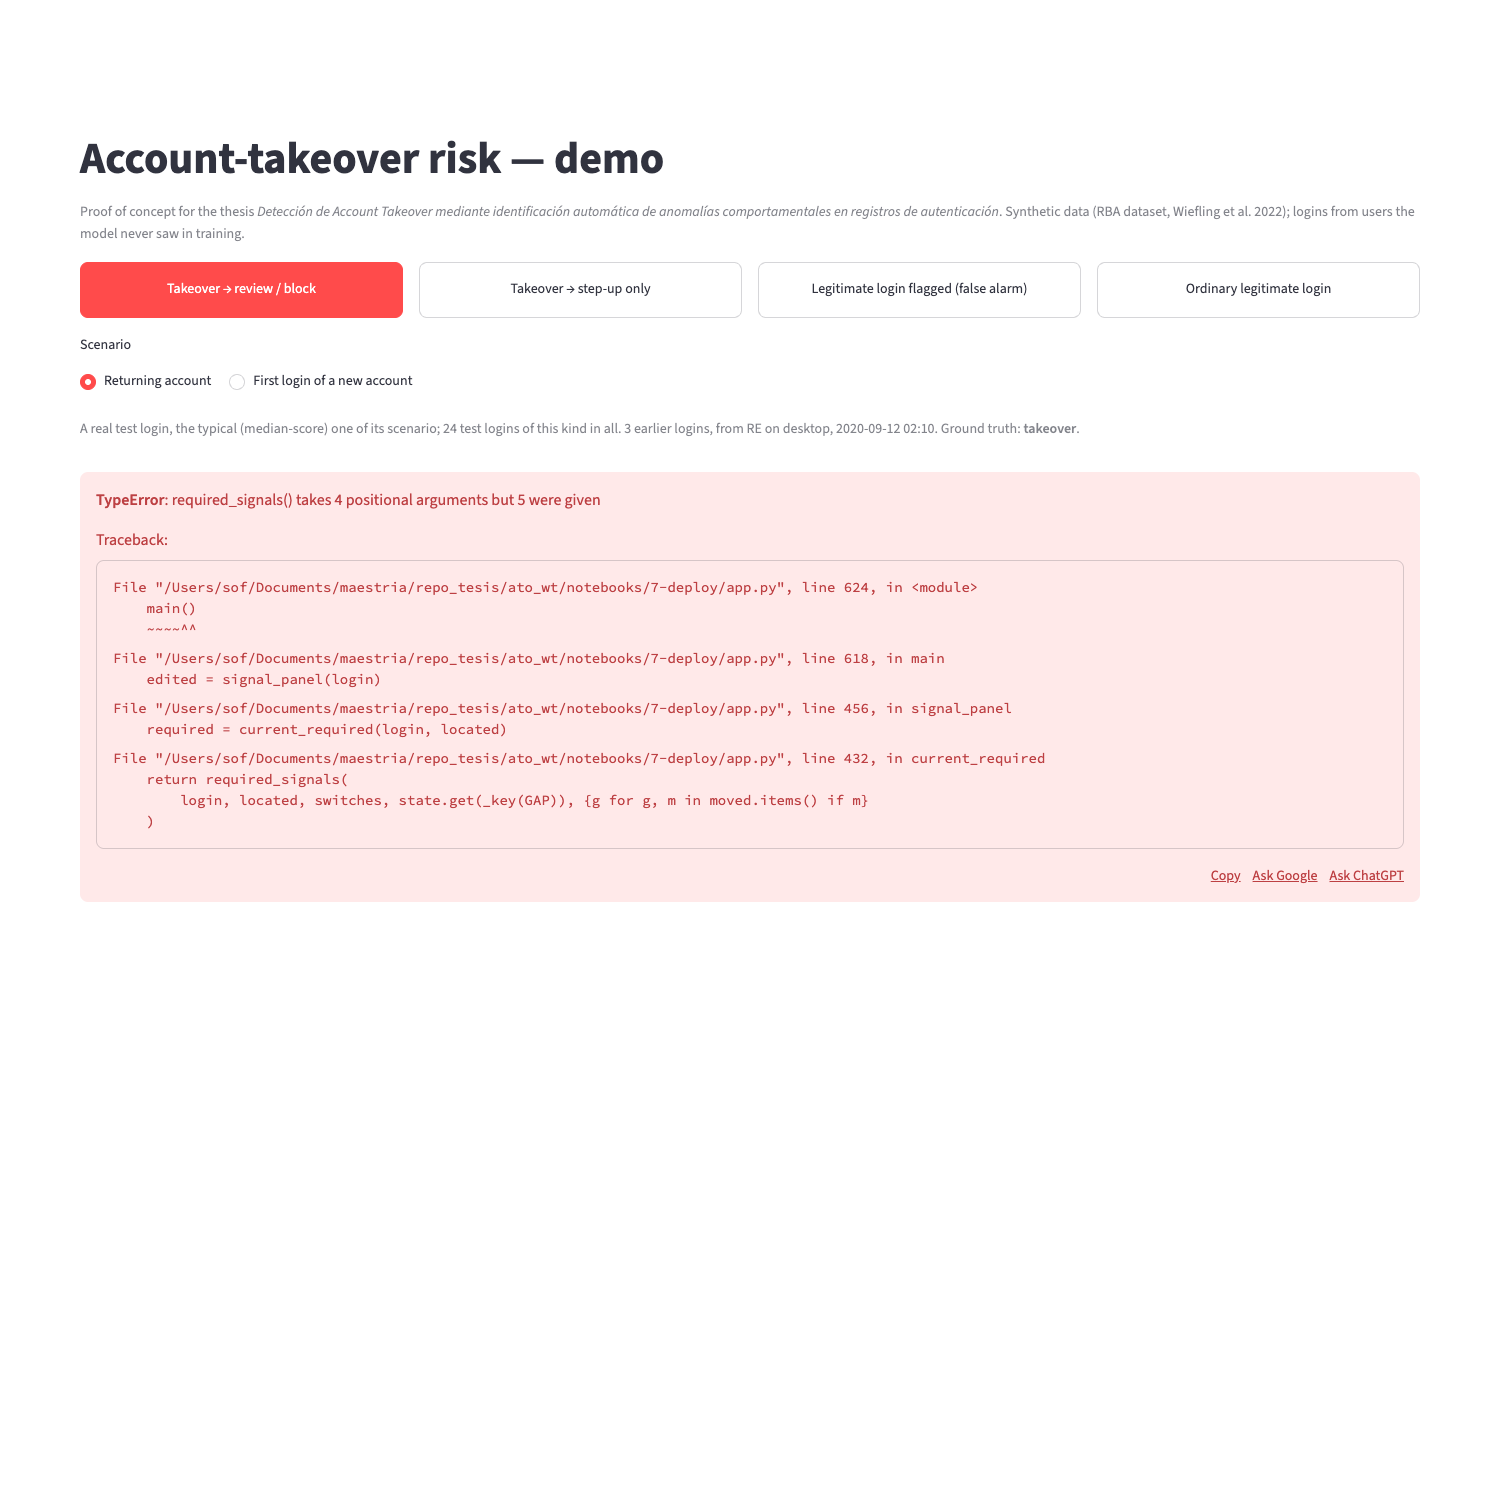
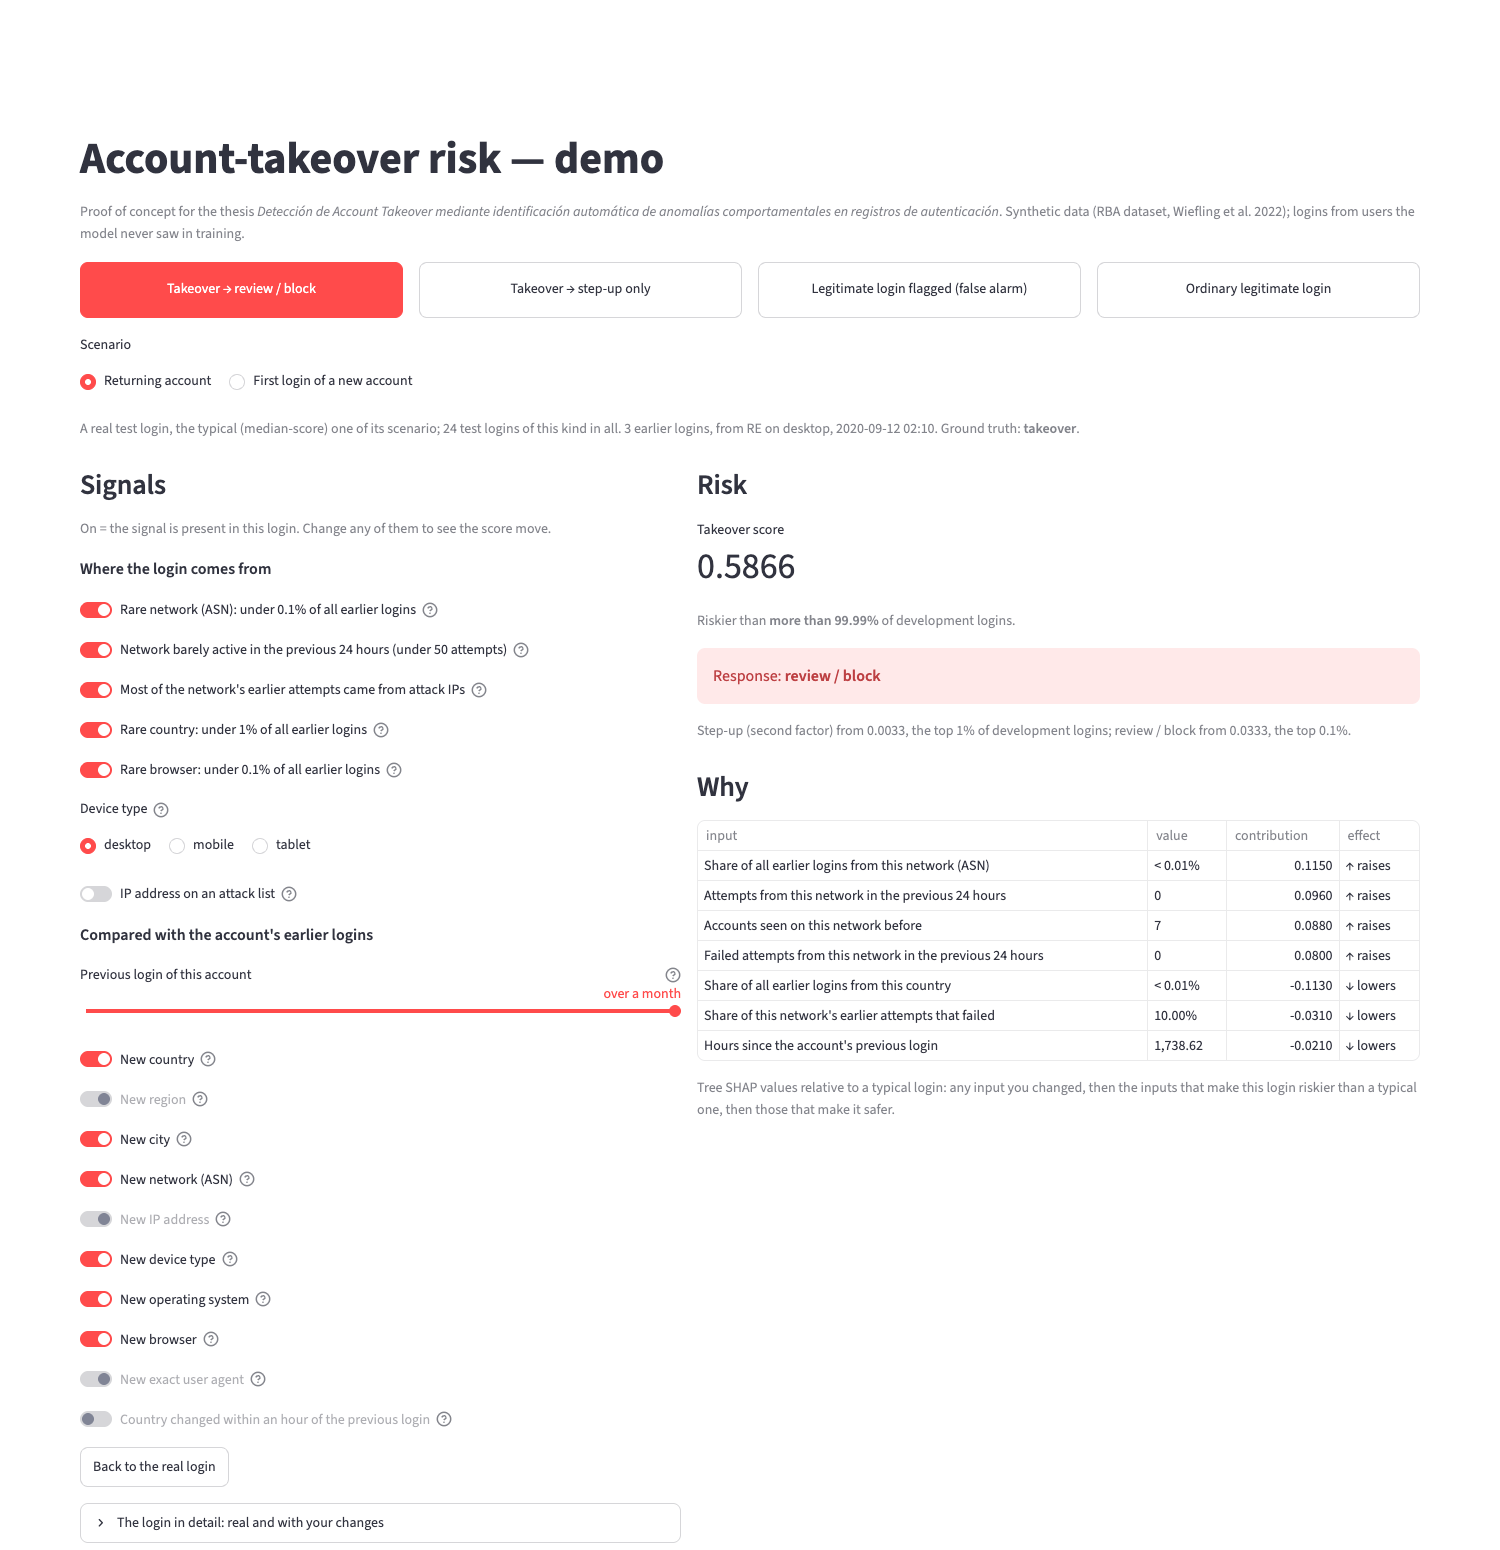
feat: explain each demo signal and show the real and what-if login side by side
Add a definition on hover for every control, move the device type and
the rare-browser switch together so the browser always fits the device,
show the real login next to the what-if version, and state the score
change against the real login's score.

diff --git a/notebooks/7-deploy/app.py b/notebooks/7-deploy/app.py
@@ -102,6 +102,36 @@ NETWORK = ("rare_network", "quiet_network", "attack_network")  # one network: mo
 DEVICE = "device_type"
 DEVICES = ("desktop", "mobile", "tablet")
 GAP = "gap"
+CLIENT = "rare_browser"  # moved together with the device type
+DEFINITIONS = {  # shown on hover; figures from the development side
+    "rare_network": "The network the login comes from is its internet provider's autonomous system (ASN). On: "
+    "fewer than 0.1% of all earlier logins came from it. 90% of development takeovers came from networks "
+    "under 0.05%; 90% of legitimate logins, from networks over 0.13%.",
+    "quiet_network": "Login attempts from this network in the 24 hours before. On: fewer than 50. Takeovers "
+    "tend to come from networks with little other traffic.",
+    "attack_network": "Of all earlier attempts from this network, the share made from IP addresses on the "
+    "dataset's attack list. On: at least half.",
+    "rare_country": "On: fewer than 1% of all earlier logins came from this country.",
+    "rare_browser": "On: fewer than 0.1% of all earlier logins used this browser version. Moves together with "
+    "the device type, so the browser always fits the device.",
+    DEVICE: "Desktop, mobile or tablet. In development, 94 of the 112 takeovers were on a desktop: desktop "
+    "logins were about 9 times more often takeovers than mobile ones.",
+    "attack_ip": "The IP address is on the dataset's list of addresses seen in credential attacks. It also "
+    "sets the share of this IP's earlier attempts that were attacks (all of them, or none).",
+    GAP: "Time since this account's previous successful login.",
+    "new_country": "The account had never logged in from this country.",
+    "new_region": "The account had never logged in from this region.",
+    "new_city": "The account had never logged in from this city.",
+    "new_asn": "The account had never used this network (ASN).",
+    "new_ip": "The account had never used this IP address.",
+    "new_device_type": "The account had never used this device type.",
+    "new_os": "The account had never used this operating system.",
+    "new_browser": "The account had never used this browser.",
+    "new_user_agent": "The account had never sent this exact browser identification string (user agent).",
+    "country_change_1h": "The country differs from the previous login's, and that login was less than an "
+    "hour earlier: a jump between countries a person can hardly make (impossible travel). Rare, but 8.5% "
+    "of development takeovers on returning accounts against 0.1% of legitimate logins.",
+}
 KEY_NOVELTY = ("new_country", "new_asn", "new_device_type", "new_os", "new_browser")
 MIN_SCORE_CHANGE = 5e-5  # below this the 4-decimal score does not move
 
@@ -211,7 +241,7 @@ class Typical(TypedDict):
 
     network: dict[tuple[bool, ...], Values]
     others: dict[str, dict[bool, Values]]
-    device: dict[str, Values]
+    client: dict[tuple[str, bool], Values]
     gap: dict[str, float | None]
 
 
@@ -250,15 +280,16 @@ def typical_values() -> Typical:
             for state in (True, False)
         }
         for name in CONTEXT
-        if name not in NETWORK
+        if name not in (*NETWORK, CLIENT)
     }
-    device = {
-        d: _typical(
-            logins.filter(pl.col(DEVICE) == d),
-            "global_share_device_type",
-            ["global_share_device_type"],
+    client = {  # device type and browser describe one client: a login matching both
+        (device, state): _typical(
+            logins.filter((pl.col(DEVICE) == device) & (on[CLIENT] if state else ~on[CLIENT])),
+            "global_share_browser",
+            ["global_share_device_type", *columns(CLIENT)],
         )
-        for d in DEVICES
+        for device in DEVICES
+        for state in (True, False)
     }
     hours, lower, gap = pl.col("hours_since_prev_success"), 0.0, {}
     for name, upper in GAPS.items():
@@ -267,7 +298,7 @@ def typical_values() -> Typical:
             "hours_since_prev_success"
         )
         lower = upper
-    return Typical(network=network, others=others, device=device, gap=gap)
+    return Typical(network=network, others=others, client=client, gap=gap)
 
 
 def kinds(logins: pl.DataFrame, det: Detector) -> dict[str, pl.DataFrame]:
@@ -405,9 +436,11 @@ def locate(login: pl.DataFrame) -> pl.DataFrame:
     for name, values in typical["others"].items():
         if bool(state[_key(name)]) != context_state(login, name):
             located = _with_values(located, values[bool(state[_key(name)])])
-    device = state[_key(DEVICE)]
-    if device != login[DEVICE][0]:
-        located = _with_values(located, {DEVICE: device, **typical["device"][device]})
+    device, rare = state[_key(DEVICE)], bool(state[_key(CLIENT)])
+    if device != login[DEVICE][0] or rare != context_state(login, CLIENT):
+        located = _with_values(
+            located, {DEVICE: device, **typical["client"].get((device, rare), {})}
+        )
     return located
 
 
@@ -462,13 +495,13 @@ def signal_panel(login: pl.DataFrame) -> pl.DataFrame:
     )
     st.markdown("**Where the login comes from**")
     for name, context in CONTEXT.items():
-        st.toggle(context.text, key=_key(name))
+        st.toggle(context.text, key=_key(name), help=DEFINITIONS[name])
     devices = [*DEVICES, *([login[DEVICE][0]] if login[DEVICE][0] not in DEVICES else [])]
-    st.radio("Device type", devices, horizontal=True, key=_key(DEVICE))
+    st.radio("Device type", devices, horizontal=True, key=_key(DEVICE), help=DEFINITIONS[DEVICE])
     for column, text in NETWORK_SIGNALS.items():
         if column in login.columns:
             fixed = required[column][1] if column in required else None
-            st.toggle(text, key=_key(column), disabled=fixed is not None, help=fixed)
+            st.toggle(text, key=_key(column), disabled=fixed is not None, help=_help(column, fixed))
     st.markdown("**Compared with the account's earlier logins**")
     if first_login:
         st.caption(
@@ -476,7 +509,9 @@ def signal_panel(login: pl.DataFrame) -> pl.DataFrame:
             "so these signals do not exist yet (greyed out)."
         )
     else:
-        st.select_slider("Previous login of this account", list(GAPS), key=_key(GAP))
+        st.select_slider(
+            "Previous login of this account", list(GAPS), key=_key(GAP), help=DEFINITIONS[GAP]
+        )
     for column, text in HISTORY_SIGNALS.items():
         if column not in login.columns:
             continue
@@ -484,9 +519,19 @@ def signal_panel(login: pl.DataFrame) -> pl.DataFrame:
             reason: str | None = f"{text.removeprefix('New ').capitalize()} unknown for this login."
         else:
             reason = required[column][1] if column in required else None
-        st.toggle(text, key=_key(column), disabled=first_login or reason is not None, help=reason)
+        st.toggle(
+            text,
+            key=_key(column),
+            disabled=first_login or reason is not None,
+            help=_help(column, reason),
+        )
     st.button("Back to the real login", on_click=load_signals, args=(login,))
     return apply_signals(login, located, first_login)
+
+
+def _help(signal: str, fixed: str | None) -> str:
+    """The signal's definition, and why it is greyed out when a rule fixes it."""
+    return f"{DEFINITIONS[signal]}\n\n**Greyed out:** {fixed}" if fixed else DEFINITIONS[signal]
 
 
 def apply_signals(login: pl.DataFrame, located: pl.DataFrame, first_login: bool) -> pl.DataFrame:
@@ -541,7 +586,9 @@ def risk_panel(det: Detector, login: pl.DataFrame, edited: pl.DataFrame) -> None
     st.metric(
         "Takeover score",
         f"{score:.4f}",
-        delta=f"{score - original:+.4f} vs the real login" if changed and moved else None,
+        delta=f"{score - original:+.4f} from the real login's {original:.4f}"
+        if changed and moved
+        else None,
         delta_color="inverse",
     )
     if changed and not moved:
@@ -576,14 +623,24 @@ def risk_panel(det: Detector, login: pl.DataFrame, edited: pl.DataFrame) -> None
     )
 
 
-def details_panel(login: pl.DataFrame) -> None:
-    with st.expander("Login details (the real login)"):
-        shown = [c for c in KEY_COLUMNS if c in login.columns]
+def details_panel(det: Detector, login: pl.DataFrame, edited: pl.DataFrame) -> None:
+    """The scenario's real login next to the what-if version the controls made of it."""
+    with st.expander("The login in detail: real and with your changes"):
+        st.caption(
+            "Each scenario starts from one real test login (8 in all: four kinds of outcome, two scenarios "
+            "each). The controls make a what-if version of that login, so its id stays the same."
+        )
+        changed = changed_inputs(det, login, edited)
+        shown = [
+            *(c for c in KEY_COLUMNS if c in login.columns),
+            *(c for c in changed if c not in KEY_COLUMNS),
+        ]
         st.table(
             pl.DataFrame(
                 {
                     "field": [label(c) for c in shown],
-                    "value": [format_value(c, login[c][0]) for c in shown],
+                    "real login": [format_value(c, login[c][0]) for c in shown],
+                    "with your changes": [format_value(c, edited[c][0]) for c in shown],
                 }
             ),
         )
@@ -616,7 +673,7 @@ def main() -> None:
     left, right = st.columns([1, 1.2])
     with left:
         edited = signal_panel(login)
-        details_panel(login)
+        details_panel(det, login, edited)
     with right:
         risk_panel(det, login, edited)
 

diff --git a/tests/inference/test_app.py b/tests/inference/test_app.py
@@ -83,7 +83,8 @@ def test_demo_scores_a_scenario_and_reacts_to_signals(
     attack.set_value(not attack.value).run()
     assert not app.exception, app.exception
     assert app.metric[0].value != before, "the change reaches the model"
-    assert app.metric[0].delta.lstrip("+-") != "0.0000 vs the real login"
+    assert not app.metric[0].delta.lstrip("+-").startswith("0.0000")
+    assert app.metric[0].delta.endswith(f"from the real login's {before}")
     app.button[-1].click().run()  # back to the real login
     assert app.metric[0].value == before
     assert not app.metric[0].delta
@@ -190,13 +191,17 @@ def test_a_released_switch_gets_back_the_viewers_value(
 def test_device_type_reaches_the_model(data_dir: Path, monkeypatch: pytest.MonkeyPatch) -> None:
     app = _open(data_dir, monkeypatch)
     device = app.radio(key="signal-device_type")
-    other = next(d for d in ("desktop", "mobile", "tablet") if d != device.value)
+    real = device.value
+    other = next(d for d in ("desktop", "mobile", "tablet") if d != real)
     device.set_value(other).run()
     assert not app.exception, app.exception
-    why = app.table[-1].value
-    assert why.iloc[0]["input"].startswith(
-        ("Device type", "Share of all earlier logins with this device")
-    )
+    client_inputs = (
+        "Device type", "Share of all earlier logins with this", "Accounts seen with this exact user agent",
+    )  # fmt: skip
+    assert app.table[-1].value.iloc[0]["input"].startswith(client_inputs)
+    detail = app.table[0].value  # the login in detail: real and with your changes
+    row = detail[detail["field"] == "Device type"].iloc[0]
+    assert (row["real login"], row["with your changes"]) == (real, other)
 
 
 def test_first_login_greys_out_history_signals(
@@ -206,6 +211,17 @@ def test_first_login_greys_out_history_signals(
     assert _choose(app, "first")
     assert app.toggle(key="signal-new_country").disabled, "nothing to compare with yet"
     assert not app.select_slider, "no previous login, so no time since it"
+
+
+def test_every_control_has_a_definition(data_dir: Path, monkeypatch: pytest.MonkeyPatch) -> None:
+    app = _open(data_dir, monkeypatch)
+    assert _choose(app, "returning")
+    controls = [
+        *app.toggle,
+        app.radio(key="signal-device_type"),
+        app.select_slider(key="signal-gap"),
+    ]
+    assert all(c.help for c in controls), [c.label for c in controls if not c.help]
 
 
 def test_demo_explains_missing_data(tmp_path: Path, monkeypatch: pytest.MonkeyPatch) -> None:

diff --git a/notebooks/7-deploy/README.md b/notebooks/7-deploy/README.md
@@ -25,7 +25,10 @@ Issue [#8](https://github.com/modsiw-mona/anomaly_detection_ato/issues/8) (CRISP
       threshold; taking one real login, not a median per input, keeps the relations between its inputs (an IP
       never has more accounts or logins than its network). The three network switches describe one network, so
       flipping any of them takes all the network's inputs from a login matching all three switches at once (all
-      eight combinations occur in the test data). The device type sets the device and its share of all logins.
+      eight combinations occur in the test data). Device type and rare browser likewise describe one client, so
+      changing either takes the device's and the browser's inputs from a login matching both (a browser that
+      fits the device); all six combinations occur. In development, 94 of the 112 takeovers were on a desktop:
+      desktop logins were about 9 times more often takeovers than mobile ones.
     - *Compared with the account's earlier logins:* the time since the previous login, then new country, region,
       city, network, IP address, device type, operating system, browser, exact user agent, and a country change
       within an hour. On an account's **first** login there is no earlier login to compare with, so these are
@@ -50,7 +53,12 @@ Issue [#8](https://github.com/modsiw-mona/anomaly_detection_ato/issues/8) (CRISP
   Two more follow from the definitions when a *where from* control replaces a value: if the account had only one
   earlier login, a different network, browser or device type is new for it; if it had used only one country, a
   different country is new.
-- **Login details** (collapsed): the real login's facts, for reference; they do not change with the controls.
+- **Definitions on hover.** Every control has a "?" with a plain-language definition (and, when a rule greys it
+  out, the reason).
+- **The login in detail** (collapsed): each scenario starts from one real test login (8 in all), and the controls
+  make a what-if version of it. This table shows both side by side, "real login" and "with your changes", so the
+  login id stays the same while the inputs you changed differ. The score change reads "from the real login's"
+  score.
 - **Plain-language names:** every input on screen is shown by what it means (e.g. "Share of all earlier logins
   from this country"); the login id, in *Login details*, is shown for reference only and is not a model input.
 
@@ -58,8 +66,8 @@ Issue [#8](https://github.com/modsiw-mona/anomaly_detection_ato/issues/8) (CRISP
 than what is new for the account. Turning *rare network* off brings the first-login takeover from 0.74 to 0.02 and
 the returning-account one from 0.59 to 0.03 (review / block to step-up); turning *most attempts from attack IPs*
 off brings the returning-account one to allow; turning off all five *where from* switches makes either look
-ordinary (allow). The device type matters too (the returning-account takeover from desktop to mobile: 0.59 to
-0.13). The account-novelty switches move scores less: on the ordinary returning-account scenario no combination
+ordinary (allow). The device type matters too: the returning-account takeover on a mobile instead of a desktop
+(with a browser that fits it) drops from 0.59 to 0.02. The account-novelty switches move scores less: on the ordinary returning-account scenario no combination
 of them changes the response. Novelty is common in legitimate traffic too: 43% of legitimate returning-account
 logins in development bring a new country, network, device type, operating system or browser for the account
 (41% a new IP address), against 86% of the 71 returning-account takeover logins.
